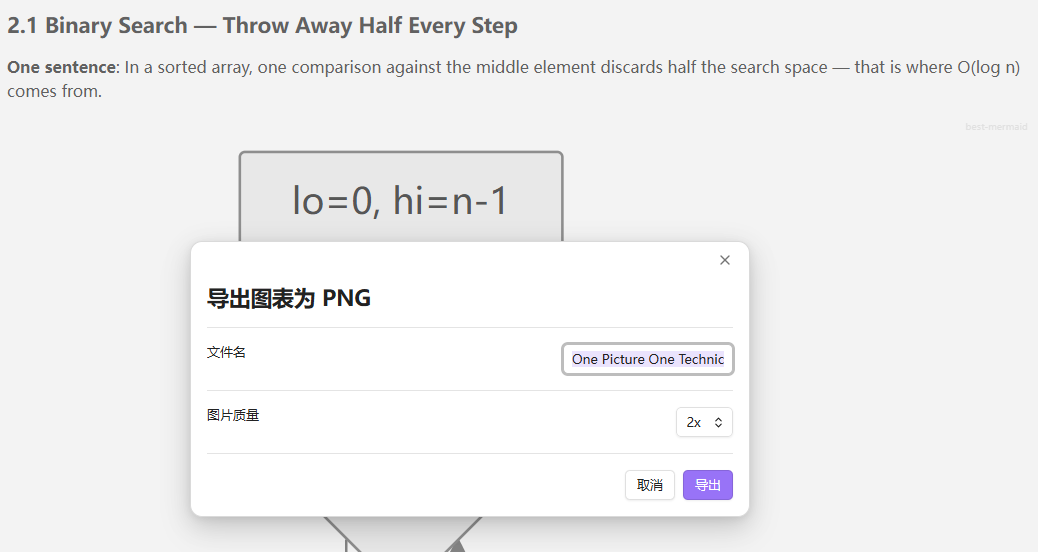
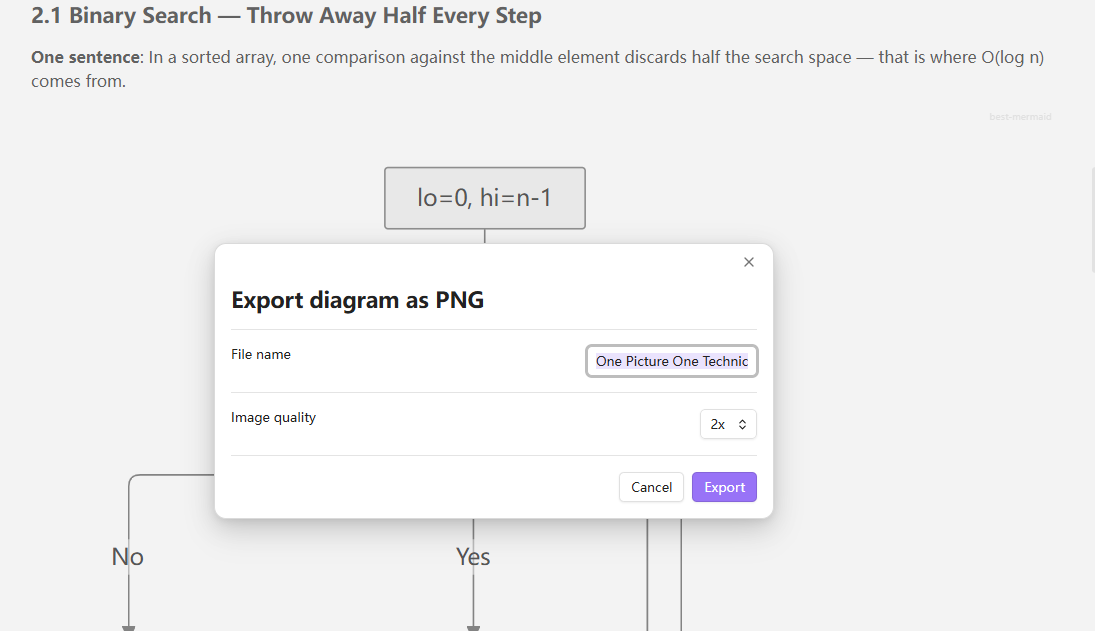
错误框重设计：结构化诊断（哪里错/为什么/建议修复）+ 原始信息折叠

diff --git a/src/services/error-boundary.ts b/src/services/error-boundary.ts
@@ -1,32 +1,80 @@
 /**
- * 错误边界：渲染失败时绝不静默空白，
- * 渲染出带错误信息与源码定位的可视错误块。
+ * 错误边界：渲染失败时绝不静默空白。
+ * 把 mermaid 的开发者向报错翻译成"哪里错 / 为什么 / 怎么修"的结构化诊断，
+ * 原始错误折叠在 details 里备查。
  */
 import { t } from "../i18n";
+
+export interface ErrorDiagnosis {
+	/** 出错行号（从报错文本提取），无则 null */
+	line: number | null;
+	/** 报错中携带的出错源码片段 */
+	fragment: string | null;
+	/** 人类可读原因的 i18n key（可识别时） */
+	reasonKey: string | null;
+	/** 修正后的整行建议（可生成时） */
+	suggestion: string | null;
+}
+
+/** 从 mermaid 报错文本 + 源码中提取结构化诊断 */
+export function diagnoseParseError(msg: string, source: string): ErrorDiagnosis {
+	const lineMatch = /Parse error on line (\d+)/.exec(msg);
+	const line = lineMatch ? Number(lineMatch[1]) : null;
+
+	const fragMatch = /Parse error on line \d+:\s*\.\.\.([\s\S]*?)\s*-{5,}\^/.exec(msg);
+	const fragment = fragMatch ? fragMatch[1].trim() : null;
+
+	let reasonKey: string | null = null;
+	let suggestion: string | null = null;
+
+	if (/got 'PS'/.test(msg) || /got 'PSE'/.test(msg)) {
+		reasonKey = "unquotedParens";
+		const lineText = line ? (source.split("\n")[line - 1] ?? fragment) : fragment;
+		if (lineText) suggestion = quoteLabels(lineText);
+	}
+
+	return { line, fragment, reasonKey, suggestion };
+}
+
+/**
+ * 生成修复建议：把行内含括号/花括号等形状字符的 [标签] 用引号包裹。
+ * 例：`J --> K[configure(surface)]` → `J --> K["configure(surface)"]`
+ */
+export function quoteLabels(line: string): string {
+	return line.replace(
+		/([\w-]+)(\[[^\[\]"`]*[(){}][^\[\]"`]*\])/g,
+		(_m, id: string, label: string) => `${id}["${label.slice(1, -1)}"]`,
+	);
+}
 
 export class ErrorBoundary {
 	render(el: HTMLElement, error: unknown, source: string): void {
 		const msg = error instanceof Error ? error.message : String(error);
-		const suspectLine = this.suspectLine(msg);
+		const d = diagnoseParseError(msg, source);
 
 		const box = el.createDiv({ cls: "best-mermaid-error" });
-		box.createDiv({
-			cls: "bm-error-msg",
-			text: `${t("renderFailed")}${suspectLine ? ` ${t("nearLine")} ${suspectLine})` : ""}`,
-		});
-		box.createDiv({ cls: "bm-error-detail", text: msg });
-		if (suspectLine !== null) {
-			const lines = source.split("\n");
-			const pre = box.createEl("pre");
-			pre.setText(lines[suspectLine - 1] ?? "");
-		}
-	}
 
-	/** 从 mermaid 的报错文本中提取疑似行号，提取不到返回 null */
-	private suspectLine(msg: string): number | null {
-		const m = /line[: ]+(\d+)/i.exec(msg);
-		if (!m) return null;
-		const n = Number(m[1]);
-		return Number.isInteger(n) && n > 0 ? n : null;
+		const title = box.createDiv({ cls: "bm-error-title" });
+		title.textContent = d.line
+			? t("errorTitleTemplate").replace("{n}", String(d.line))
+			: t("errorTitle");
+
+		if (d.reasonKey) {
+			box.createDiv({ cls: "bm-error-reason", text: t(d.reasonKey) });
+		}
+
+		if (d.suggestion) {
+			const sug = box.createDiv({ cls: "bm-error-suggestion" });
+			sug.createSpan({ cls: "bm-error-suggestion-label", text: t("errorSuggestion") });
+			sug.createEl("code", { text: d.suggestion.trim() });
+		} else if (d.line) {
+			// 没有可生成的建议时，至少把出错行单独示出
+			const lineText = source.split("\n")[d.line - 1];
+			if (lineText) box.createDiv({ cls: "bm-error-line", text: lineText.trim() });
+		}
+
+		const details = box.createEl("details", { cls: "bm-error-details" });
+		details.createEl("summary", { text: t("errorDetails") });
+		details.createEl("pre", { text: msg });
 	}
 }

diff --git a/tests/error-boundary.test.ts b/tests/error-boundary.test.ts
@@ -1,0 +1,46 @@
+import { describe, it, expect } from "vitest";
+import { diagnoseParseError, quoteLabels } from "../src/services/error-boundary";
+
+const REAL_ERROR_1 = `Parse error on line 13:
+... J --> K[configure(surface)] K -->
+-----------------------^
+Expecting 'SQE', 'DOUBLECIRCLEEND', 'PE', '-)', 'STADIUMEND', 'SUBROUTINEEND', 'PIPE', 'CYLINDEREND', 'DIAMOND_STOP', 'TAGEND', 'TRAPEND', 'INVTRAPEND', 'UNICODE_TEXT', 'TEXT', 'TAGSTART', got 'PS'`;
+
+const REAL_ERROR_2 = `Parse error on line 11:
+...<br/>FixedThreadPool(4)] end su
+-----------------------^
+Expecting 'SQE', ... got 'PS'`;
+
+describe("diagnoseParseError 结构化诊断", () => {
+	it("提取行号/片段/原因/修复建议（真实报错样例 1）", () => {
+		const d = diagnoseParseError(REAL_ERROR_1, "graph TD\n    J --> K[configure(surface)]");
+		expect(d.line).toBe(13);
+		expect(d.reasonKey).toBe("unquotedParens");
+		expect(d.suggestion).toContain('K["configure(surface)"]');
+	});
+
+	it("真实报错样例 2：含中文与 <br/> 的标签（源码还原到真实行号）", () => {
+		const lines = ["graph TB", ...Array<string>(9).fill("    subgraph 解码线程池"), "    DecPool[解码线程池<br/>FixedThreadPool(4)]"];
+		const d = diagnoseParseError(REAL_ERROR_2, lines.join("\n"));
+		expect(d.line).toBe(11);
+		expect(d.reasonKey).toBe("unquotedParens");
+		expect(d.suggestion).toContain('DecPool["解码线程池<br/>FixedThreadPool(4)"]');
+	});
+
+	it("非括号类错误：无建议，保留行号", () => {
+		const d = diagnoseParseError("Parse error on line 2:\n...foo----^", "a\nb\n");
+		expect(d.line).toBe(2);
+		expect(d.reasonKey).toBeNull();
+		expect(d.suggestion).toBeNull();
+	});
+});
+
+describe("quoteLabels 引号修复生成", () => {
+	it("包裹含括号的标签，已加引号的不动", () => {
+		expect(quoteLabels('J --> K[configure(surface)]')).toBe('J --> K["configure(surface)"]');
+		expect(quoteLabels('A["ok(1)"] --> B[x(2)]')).toBe('A["ok(1)"] --> B["x(2)"]');
+	});
+	it("同一行多个标签全部包裹", () => {
+		expect(quoteLabels("A[p(1)] --> B[q(2)]")).toBe('A["p(1)"] --> B["q(2)"]');
+	});
+});

diff --git a/styles.css b/styles.css
@@ -170,22 +170,74 @@
 	top: var(--size-2-2);
 }
 
-/* 错误可视化 */
+/* 错误可视化：结构化诊断（哪里错/为什么/怎么修）+ 原始信息折叠 */
 .best-mermaid-error {
 	border: 1px solid var(--background-modifier-error);
 	background: var(--background-secondary);
 	border-radius: 6px;
-	padding: 8px 12px;
+	padding: 10px 12px;
 	font-size: 0.85em;
-	color: var(--text-error);
+	color: var(--text-normal);
+	line-height: 1.5;
 }
 
-.best-mermaid-error .bm-error-msg {
+.best-mermaid-error .bm-error-title {
 	font-weight: 600;
+	color: var(--text-error);
 	margin-bottom: 4px;
 }
 
-.best-mermaid-error pre {
-	margin: 4px 0 0;
+.best-mermaid-error .bm-error-reason {
+	margin: 2px 0;
+}
+
+.best-mermaid-error .bm-error-suggestion {
+	margin: 6px 0 2px;
+	display: flex;
+	gap: 6px;
+	align-items: center;
+	flex-wrap: wrap;
+}
+
+.best-mermaid-error .bm-error-suggestion-label {
 	color: var(--text-muted);
+	flex-shrink: 0;
+}
+
+.best-mermaid-error .bm-error-suggestion code {
+	background: var(--background-primary);
+	border: 1px solid var(--background-modifier-border);
+	padding: 1px 6px;
+	border-radius: 4px;
+	font-size: 0.95em;
+	word-break: break-all;
+}
+
+.best-mermaid-error .bm-error-line {
+	margin: 6px 0 0;
+	color: var(--text-muted);
+	background: var(--background-primary);
+	border-left: 3px solid var(--background-modifier-error);
+	padding: 4px 8px;
+	border-radius: 4px;
+	white-space: pre-wrap;
+	word-break: break-all;
+}
+
+.best-mermaid-error .bm-error-details {
+	margin-top: 8px;
+	color: var(--text-muted);
+}
+
+.best-mermaid-error .bm-error-details summary {
+	cursor: pointer;
+	user-select: none;
+}
+
+.best-mermaid-error .bm-error-details pre {
+	margin: 6px 0 0;
+	white-space: pre-wrap;
+	word-break: break-all;
+	color: var(--text-faint);
+	font-size: 0.92em;
 }

diff --git a/src/i18n.ts b/src/i18n.ts
@@ -27,6 +27,11 @@ const en: Dict = {
 	delete: "Delete",
 	followsTheme: "Follows theme",
 	fixedPalette: "Fixed palette",
+	errorTitle: "Diagram syntax error",
+	errorTitleTemplate: "Diagram syntax error (line {n})",
+	unquotedParens: "A node label contains unquoted parentheses — mermaid treats \"(\" as the start of a new node shape. Wrap the label in quotes to fix it:",
+	errorSuggestion: "Suggested fix:",
+	errorDetails: "Raw error",
 	renderFailed: "Mermaid render failed",
 	nearLine: "(near line",
 	exportPng: "Export PNG",
@@ -62,6 +67,11 @@ const zh: Dict = {
 	delete: "删除",
 	followsTheme: "跟随主题",
 	fixedPalette: "固定配色",
+	errorTitle: "图表语法错误",
+	errorTitleTemplate: "图表语法错误（第 {n} 行）",
+	unquotedParens: "节点文字包含未加引号的括号——mermaid 会把 \"(\" 当作新节点形状的起始符。给标签加上引号即可修复：",
+	errorSuggestion: "建议修复：",
+	errorDetails: "原始错误信息",
 	renderFailed: "Mermaid 渲染失败",
 	nearLine: "（疑似第",
 	exportPng: "导出 PNG",

diff --git a/tests/i18n.test.ts b/tests/i18n.test.ts
@@ -11,7 +11,12 @@ describe("i18n 跟随 Obsidian 语言设置", () => {
 	it("英文（默认）", () => {
 		setLocale("en");
 		expect(t("styles")).toBe("Styles");
-		expect(t("renderFailed")).toBe("Mermaid render failed");
+		expect(t("errorTitleTemplate").replace("{n}", "13")).toBe("Diagram syntax error (line 13)");
+	});
+	it("错误框文案", () => {
+		setLocale("zh-cn");
+		expect(t("errorTitleTemplate").replace("{n}", "13")).toBe("图表语法错误（第 13 行）");
+		expect(t("unquotedParens")).toContain("引号");
 	});
 	it("中文（zh/zh-cn）", () => {
 		setLocale("zh");
